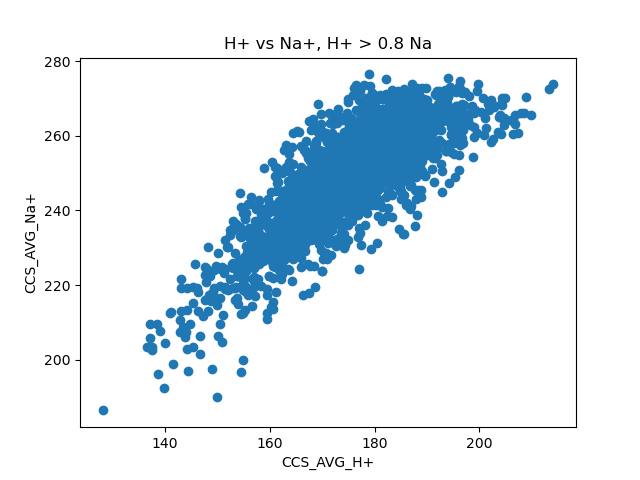
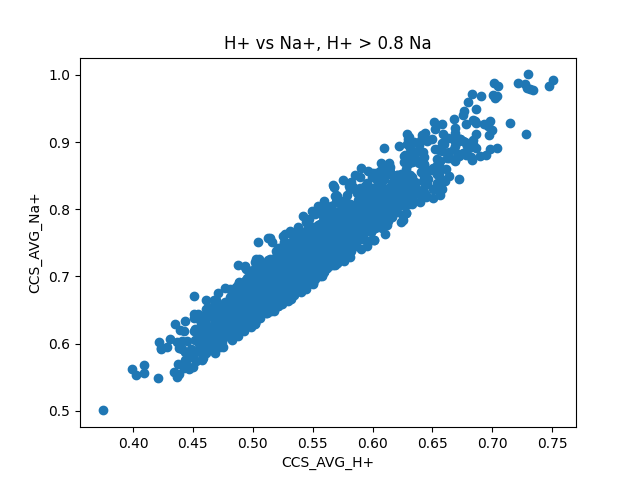
v.0.01

diff --git a/main.py b/main.py
@@ -12,12 +12,33 @@ def compute_sverage_sd_and_plot_histogram(compounds, name):
     plt.figure(figsize=(24, 8))
     plt.hist(css_sd, bins=300)
     plt.title("Standard deviation of each molecule: " + name, fontsize=24)
-    plt.savefig("Sd of the CCS" + name + ".png")
+    plt.savefig("./results/Sd of the CCS" + name + ".png")
     return css_sd.mean()
 
 
 # Read the CSV file into a pandas DataFrame
 metlin = pd.read_csv('resources/Metlin.csv')
+
+
+# Dataframe correction
+def custom_function(row):
+    if row['Dimer.1'] == "Dimmer":
+        if row['Adduct'] == "[M+H]":
+            return (row['m/z']-1.00295)*2 + 1.00295
+        elif row['Adduct'] == "[M-H]":
+            return (row['m/z']+1.00295)*2 - 1.00295
+        elif row['Adduct'] == "[M+Na]":
+            return (row['m/z']-22.9892)*2 + 22.9892
+    else:
+        return row['m/z']
+
+
+# Apply the custom function to each row
+metlin['m/z'] = metlin.apply(custom_function, axis=1)
+
+for column in ['CCS1', 'CCS2', 'CCS3', 'CCS_AVG']:
+    metlin[column] = metlin[column] / metlin['m/z']
+
 
 print("CSS average value and standard deviations:")
 print("All: average CSS:", metlin['CCS_AVG'].mean(),
@@ -60,14 +81,14 @@ plt.scatter(metH_Hne["CCS_AVG_H+"], metH_Hne["CCS_AVG_H-"])
 plt.title("H+ vs H-")
 plt.xlabel("CCS_AVG_H+")
 plt.ylabel("CCS_AVG_H-")
-plt.savefig("H+ vs H-.png")
+plt.savefig("./results/H+ vs H-.png")
 
 plt.figure()
 plt.scatter(metH_Na["CCS_AVG_H+"], metH_Na["CCS_AVG_Na+"])
 plt.title("H+ vs Na+")
 plt.xlabel("CCS_AVG_H+")
 plt.ylabel("CCS_AVG_Na+")
-plt.savefig("H+ vs Na+.png")
+plt.savefig("./results/H+ vs Na+.png")
 
 plt.figure()
 metH_Na_gt_12 = metH_Na[metH_Na["CCS_AVG_H+"] > 1.2 * metH_Na["CCS_AVG_Na+"]]
@@ -75,7 +96,7 @@ plt.scatter(metH_Na_gt_12["CCS_AVG_H+"], metH_Na_gt_12["CCS_AVG_Na+"])
 plt.title("H+ vs Na+, H+ > 1.2 Na")
 plt.xlabel("CCS_AVG_H+")
 plt.ylabel("CCS_AVG_Na+")
-plt.savefig("H+ vs Na+, H+ > 1.2 Na.png")
+plt.savefig("./results/H+ vs Na+, H+ > 1.2 Na.png")
 
 plt.figure()
 metH_Hne_gt_12 = metH_Hne[metH_Hne["CCS_AVG_H+"] > 1.2 * metH_Hne["CCS_AVG_H-"]]
@@ -83,7 +104,7 @@ plt.scatter(metH_Hne_gt_12["CCS_AVG_H+"], metH_Hne_gt_12["CCS_AVG_H-"])
 plt.title("H+ vs H-, H+ > 1.2 H-")
 plt.xlabel("CCS_AVG_H+")
 plt.ylabel("CCS_AVG_H-")
-plt.savefig("H+ vs H-, H+ > 1.2 H-.png")
+plt.savefig("./results/H+ vs H-, H+ > 1.2 H-.png")
 
 plt.figure()
 metH_Na_gt_08 = metH_Na[metH_Na["CCS_AVG_H+"] < 0.8 * metH_Na["CCS_AVG_Na+"]]
@@ -91,7 +112,7 @@ plt.scatter(metH_Na_gt_08["CCS_AVG_H+"], metH_Na_gt_08["CCS_AVG_Na+"])
 plt.title("H+ vs Na+, H+ > 0.8 Na")
 plt.xlabel("CCS_AVG_H+")
 plt.ylabel("CCS_AVG_Na+")
-plt.savefig("H+ vs Na+, H+ > 0.8 Na.png")
+plt.savefig("./results/H+ vs Na+, H+ > 0.8 Na.png")
 
 plt.figure()
 metH_Hne_gt_08 = metH_Hne[metH_Hne["CCS_AVG_H+"] < 0.8 * metH_Hne["CCS_AVG_H-"]]
@@ -99,5 +120,5 @@ plt.scatter(metH_Hne_gt_08["CCS_AVG_H+"], metH_Hne_gt_08["CCS_AVG_H-"])
 plt.title("H+ vs H-, H+ > 0.8 H-")
 plt.xlabel("CCS_AVG_H+")
 plt.ylabel("CCS_AVG_H-")
-plt.savefig("H+ vs H-, H+ > 0.8 H-.png")
+plt.savefig("./results/H+ vs H-, H+ > 0.8 H-.png")
 
